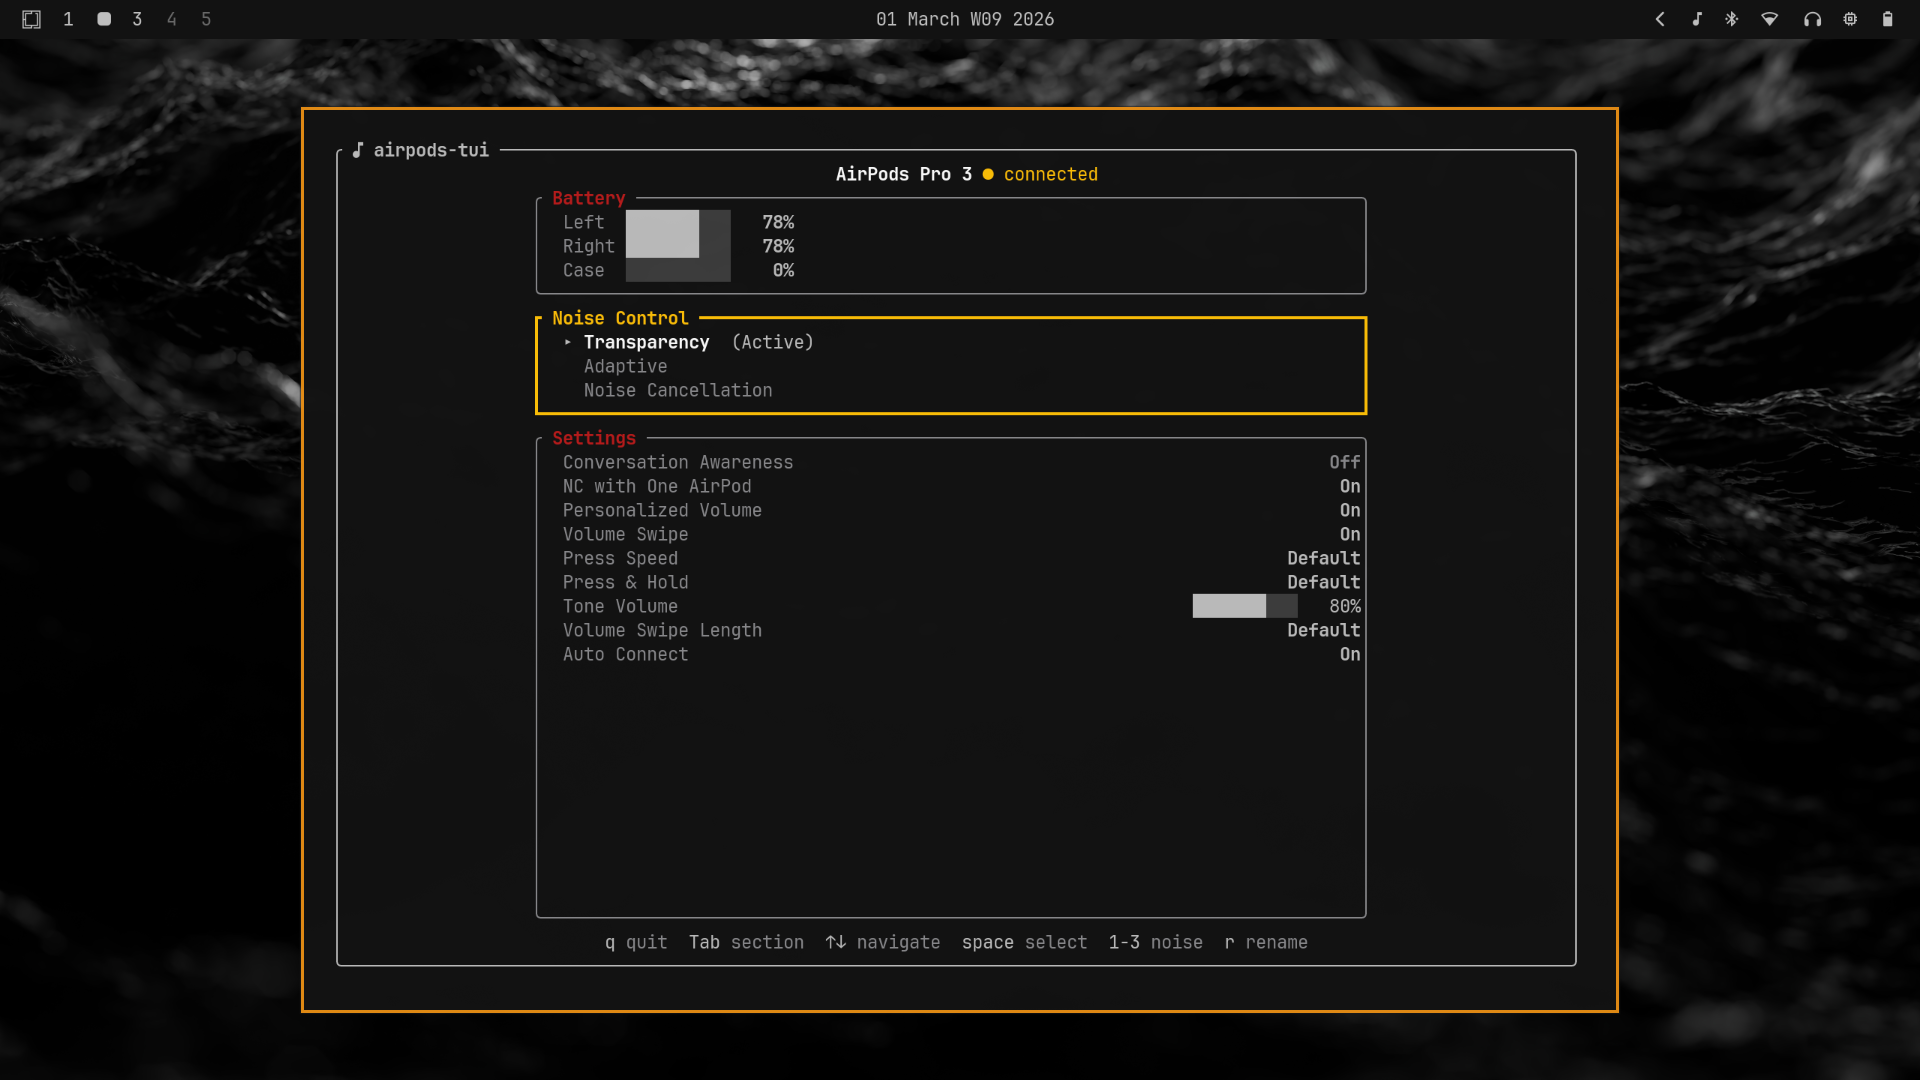
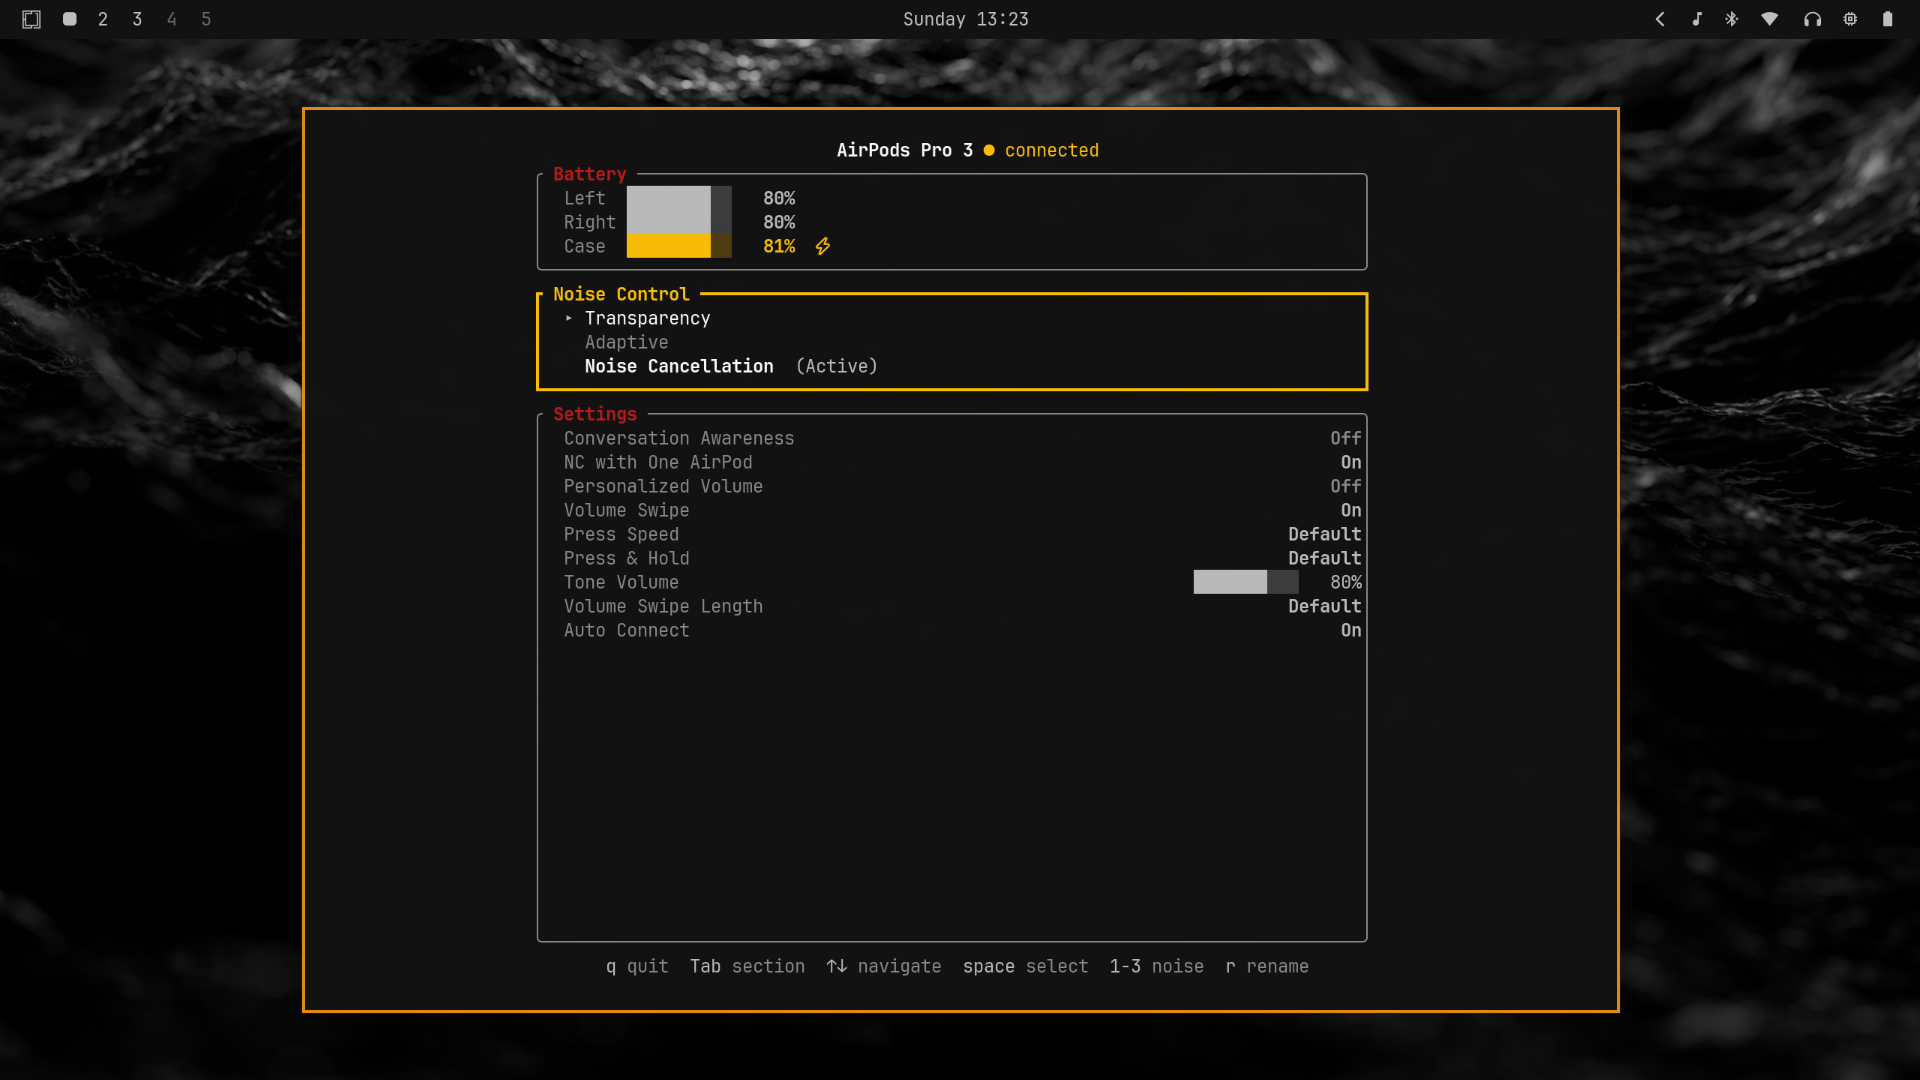
v0.5.0: native BlueZ reconnect, opcode state machine, rename alias, battery cache
- Replace bluetoothctl subprocess with native bluer device.connect()
- Strict opcode-matching init state machine (broadcast channel replaces generic notify)
- Update BlueZ alias on device rename so OS sees the change immediately
- Preserve last-known case battery when case reports disconnected
- Remove outer border from UI for more breathing room
- Charging indicator color changed to green (matches connected dot)

diff --git a/src/bluetooth/le.rs b/src/bluetooth/le.rs
@@ -187,62 +187,64 @@ pub async fn start_le_monitor(app_tx: UnboundedSender<AppEvent>) -> bluer::Resul
                                                 auto_connect
                                             );
                                             if auto_connect {
+                                                let real_mac = matched_airpods_mac.as_ref().unwrap();
                                                 let real_address =
-                                                    Address::from_str(&addr_str).unwrap();
+                                                    Address::from_str(real_mac).unwrap();
                                                 let mut cm = connecting_macs_clone.lock().await;
                                                 if cm.contains(&real_address) {
                                                     info!(
                                                         "Already connecting to {}, skipping duplicate attempt.",
-                                                        matched_airpods_mac.as_ref().unwrap()
+                                                        real_mac
                                                     );
                                                     return;
                                                 }
                                                 cm.insert(real_address);
+                                                drop(cm);
                                                 info!(
-                                                    "AirPods are disconnected, attempting to connect to {}",
-                                                    matched_airpods_mac.as_ref().unwrap()
+                                                    "AirPods are disconnected, attempting native bluer connect to {}",
+                                                    real_mac
                                                 );
-                                                let output =
-                                                    tokio::process::Command::new("bluetoothctl")
-                                                        .arg("connect")
-                                                        .arg(matched_airpods_mac.as_ref().unwrap())
-                                                        .output()
-                                                        .await;
-                                                match output {
-                                                    Ok(output) => {
-                                                        if output.status.success() {
-                                                            info!(
-                                                                "Successfully connected to AirPods {}",
-                                                                matched_airpods_mac
-                                                                    .as_ref()
-                                                                    .unwrap()
-                                                            );
-                                                            cm.remove(&real_address);
-                                                        } else {
-                                                            let stderr = String::from_utf8_lossy(
-                                                                &output.stderr,
-                                                            );
-                                                            info!(
-                                                                "Failed to connect to AirPods {}: {}",
-                                                                matched_airpods_mac
-                                                                    .as_ref()
-                                                                    .unwrap(),
-                                                                stderr
-                                                            );
+                                                let connect_session = match Session::new().await {
+                                                    Ok(s) => s,
+                                                    Err(e) => {
+                                                        info!("Failed to create bluer session for reconnect: {}", e);
+                                                        connecting_macs_clone.lock().await.remove(&real_address);
+                                                        return;
+                                                    }
+                                                };
+                                                let connect_adapter = match connect_session.default_adapter().await {
+                                                    Ok(a) => a,
+                                                    Err(e) => {
+                                                        info!("Failed to get adapter for reconnect: {}", e);
+                                                        connecting_macs_clone.lock().await.remove(&real_address);
+                                                        return;
+                                                    }
+                                                };
+                                                match connect_adapter.device(real_address) {
+                                                    Ok(device) => {
+                                                        match device.connect().await {
+                                                            Ok(()) => {
+                                                                info!(
+                                                                    "Successfully connected to AirPods {}",
+                                                                    real_mac
+                                                                );
+                                                            }
+                                                            Err(e) => {
+                                                                info!(
+                                                                    "Failed to connect to AirPods {}: {}",
+                                                                    real_mac, e
+                                                                );
+                                                            }
                                                         }
                                                     }
                                                     Err(e) => {
                                                         info!(
-                                                            "Failed to execute bluetoothctl to connect to AirPods {}: {}",
-                                                            matched_airpods_mac.as_ref().unwrap(),
-                                                            e
+                                                            "Failed to get bluer device for {}: {}",
+                                                            real_mac, e
                                                         );
                                                     }
                                                 }
-                                                info!(
-                                                    "Auto-connect is disabled for {}, not attempting to connect.",
-                                                    matched_airpods_mac.as_ref().unwrap()
-                                                );
+                                                connecting_macs_clone.lock().await.remove(&real_address);
                                             }
                                         }
 

diff --git a/src/devices/airpods.rs b/src/devices/airpods.rs
@@ -1,5 +1,5 @@
 use crate::bluetooth::aacp::ControlCommandIdentifiers;
-use crate::bluetooth::aacp::{AACPEvent, AACPManager, AirPodsLEKeys, ProximityKeyType, StemPressType};
+use crate::bluetooth::aacp::{AACPEvent, AACPManager, AirPodsLEKeys, ProximityKeyType, StemPressType, opcodes};
 use crate::config::Config;
 use crate::media_controller::MediaController;
 use crate::tui::app::AppEvent;
@@ -88,29 +88,27 @@ impl AirPodsDevice {
         });
 
         // ── Now send protocol packets (responses will be caught by channels above) ──
-        // Instead of fixed sleeps between packets, we wait for the device to respond
-        // (or time out after 500ms). AACP has no formal ACK, but the device typically
-        // sends a response packet after processing each command.
-        let notify = aacp_manager.state.lock().await.packet_received.clone();
+        // Uses strict opcode matching: each step waits for the device to respond with
+        // a specific opcode (or times out after 500ms) before proceeding.
 
         info!("Sending handshake");
         if let Err(e) = aacp_manager.send_handshake().await {
             error!("Failed to send handshake to AirPods device: {}", e);
         }
-
-        let _ = tokio::time::timeout(Duration::from_millis(500), notify.notified()).await;
+        // Handshake has no specific AACP opcode response; wait for any packet
+        let _ = Self::wait_for_any_opcode(&aacp_manager, 500).await;
 
         info!("Setting feature flags");
         if let Err(e) = aacp_manager.send_set_feature_flags_packet().await {
             error!("Failed to set feature flags: {}", e);
         }
-
-        let _ = tokio::time::timeout(Duration::from_millis(500), notify.notified()).await;
+        let _ = Self::wait_for_opcode(&aacp_manager, opcodes::SET_FEATURE_FLAGS, 500).await;
 
         info!("Requesting notifications");
         if let Err(e) = aacp_manager.send_notification_request().await {
             error!("Failed to request notifications: {}", e);
         }
+        let _ = Self::wait_for_opcode(&aacp_manager, opcodes::REQUEST_NOTIFICATIONS, 500).await;
 
         info!("sending some packet");
         if let Err(e) = aacp_manager.send_some_packet().await {
@@ -119,7 +117,7 @@ impl AirPodsDevice {
 
         if crate::devices::apple_models::needs_init_ext(product_id) {
             info!("Sending AapInitExt for model 0x{:04x} (unlocks Adaptive ANC)", product_id);
-            let _ = tokio::time::timeout(Duration::from_millis(500), notify.notified()).await;
+            let _ = Self::wait_for_opcode(&aacp_manager, opcodes::SET_FEATURE_FLAGS, 500).await;
             if let Err(e) = aacp_manager.send_init_ext().await {
                 error!("Failed to send AapInitExt: {}", e);
             }
@@ -132,6 +130,7 @@ impl AirPodsDevice {
         {
             error!("Failed to request proximity keys: {}", e);
         }
+        let _ = Self::wait_for_opcode(&aacp_manager, opcodes::PROXIMITY_KEYS_RSP, 500).await;
 
         // ── Media controller setup ──
         let session = bluer::Session::new().await?;
@@ -275,6 +274,28 @@ impl AirPodsDevice {
         Ok(AirPodsDevice {
             aacp_manager,
         })
+    }
+
+    /// Wait for a specific opcode to arrive on the broadcast channel.
+    /// Returns Ok(()) when the expected opcode is received, or Err on timeout.
+    async fn wait_for_opcode(aacp_manager: &AACPManager, expected_opcode: u8, timeout_ms: u64) -> Result<(), &'static str> {
+        let mut rx = aacp_manager.state.lock().await.opcode_tx.subscribe();
+        tokio::time::timeout(Duration::from_millis(timeout_ms), async {
+            loop {
+                if let Ok(opcode) = rx.recv().await
+                    && opcode == expected_opcode {
+                    return;
+                }
+            }
+        }).await.map_err(|_| "Timeout waiting for opcode")
+    }
+
+    /// Wait for any opcode to arrive (used for handshake which has no specific response).
+    async fn wait_for_any_opcode(aacp_manager: &AACPManager, timeout_ms: u64) -> Result<(), &'static str> {
+        let mut rx = aacp_manager.state.lock().await.opcode_tx.subscribe();
+        tokio::time::timeout(Duration::from_millis(timeout_ms), async {
+            let _ = rx.recv().await;
+        }).await.map_err(|_| "Timeout waiting for any opcode")
     }
 }
 

diff --git a/src/tui/ui.rs b/src/tui/ui.rs
@@ -14,36 +14,21 @@ const FOCUS_COLOR: Color = Color::Green;
 const HEADER: Color = Color::Yellow;
 const FG: Color = Color::White;
 const DIM: Color = Color::DarkGray;
-const CHARGING: Color = Color::Yellow;
+const CHARGING: Color = Color::Green;
 
 pub fn draw(f: &mut Frame, app: &App) {
     let area = f.area();
-
-    let outer = Block::default()
-        .borders(Borders::ALL)
-        .border_type(BorderType::Rounded)
-        .border_style(Style::default().fg(ACCENT))
-        .title(
-            Line::from(vec![Span::styled(
-                "  airpods-tui ",
-                Style::default().fg(ACCENT).add_modifier(Modifier::BOLD),
-            )])
-            .alignment(Alignment::Left),
-        );
-
-    f.render_widget(outer, area);
-    let inner = shrink(area, 1, 1);
 
     if app.device_order.is_empty() {
         let msg = Paragraph::new("No device connected.\n\nWaiting…")
             .style(Style::default().fg(DIM))
             .alignment(Alignment::Center);
-        f.render_widget(msg, centered_rect(inner, 50, 30));
-        draw_footer(f, footer_row(inner), app);
+        f.render_widget(msg, centered_rect(area, 50, 30));
+        draw_footer(f, footer_row(area), app);
         return;
     }
 
-    let col = centered_col(inner, 80);
+    let col = centered_col(area, 80);
 
     let chunks = Layout::default()
         .direction(Direction::Vertical)
@@ -62,7 +47,7 @@ pub fn draw(f: &mut Frame, app: &App) {
 
     // Rename popup overlay
     if let Some(ref buf) = app.rename_mode {
-        draw_rename_popup(f, inner, buf);
+        draw_rename_popup(f, area, buf);
     }
 }
 
@@ -488,15 +473,6 @@ fn draw_rename_popup(f: &mut Frame, area: Rect, buf: &str) {
         .alignment(Alignment::Center),
         chunks[3],
     );
-}
-
-fn shrink(area: Rect, h: u16, v: u16) -> Rect {
-    Rect {
-        x: area.x + h,
-        y: area.y + v,
-        width: area.width.saturating_sub(h * 2),
-        height: area.height.saturating_sub(v * 2),
-    }
 }
 
 fn centered_col(area: Rect, width: u16) -> Rect {

diff --git a/src/main.rs b/src/main.rs
@@ -595,6 +595,7 @@ async fn bluetooth_main(
 
     // Command dispatcher — receives (mac, DeviceCommand) from TUI
     let dm_cmd = device_managers.clone();
+    let adapter_cmd = adapter.clone();
     tokio::spawn(async move {
         while let Some((mac, cmd)) = cmd_rx.recv().await {
             let managers = dm_cmd.read().await;
@@ -609,6 +610,13 @@ async fn bluetooth_main(
                         tui::app::DeviceCommand::Rename(name) => {
                             if let Err(e) = aacp.send_rename_packet(&name).await {
                                 log::error!("Failed to send rename: {}", e);
+                            }
+                            // Also update the BlueZ alias so the OS sees the new name
+                            if let Ok(addr) = mac.parse::<Address>()
+                                && let Ok(device) = adapter_cmd.device(addr)
+                                && let Err(e) = device.set_alias(name).await
+                            {
+                                log::error!("Failed to set BlueZ alias: {}", e);
                             }
                         }
                     }

diff --git a/src/bluetooth/aacp.rs b/src/bluetooth/aacp.rs
@@ -311,6 +311,8 @@ pub struct AACPManagerState {
     /// Notified after every successfully parsed incoming packet, allowing callers
     /// to wait for a device response instead of using fixed sleeps.
     pub packet_received: Arc<tokio::sync::Notify>,
+    /// Broadcasts the opcode of every incoming packet for strict init sequencing.
+    pub opcode_tx: tokio::sync::broadcast::Sender<u8>,
 }
 
 impl AACPManagerState {
@@ -335,6 +337,7 @@ impl AACPManagerState {
             devices,
             airpods_mac: None,
             packet_received: Arc::new(tokio::sync::Notify::new()),
+            opcode_tx: tokio::sync::broadcast::channel(16).0,
         }
     }
 }
@@ -491,6 +494,9 @@ impl AACPManager {
 
         let opcode = packet[4];
         let payload = &packet[4..];
+
+        // Broadcast opcode for strict init sequencing
+        let _ = self.state.lock().await.opcode_tx.send(opcode);
 
         match opcode {
             opcodes::BATTERY_INFO => {

diff --git a/src/tui/app.rs b/src/tui/app.rs
@@ -331,7 +331,10 @@ impl App {
                                 state.battery_right = Some((b.level, b.status));
                             }
                             BatteryComponent::Case => {
-                                state.battery_case = Some((b.level, b.status));
+                                // Only update if not disconnected — preserve last known good value
+                                if b.status != BatteryStatus::Disconnected {
+                                    state.battery_case = Some((b.level, b.status));
+                                }
                             }
                             BatteryComponent::Headphone => {
                                 state.battery_headphone = Some((b.level, b.status));
